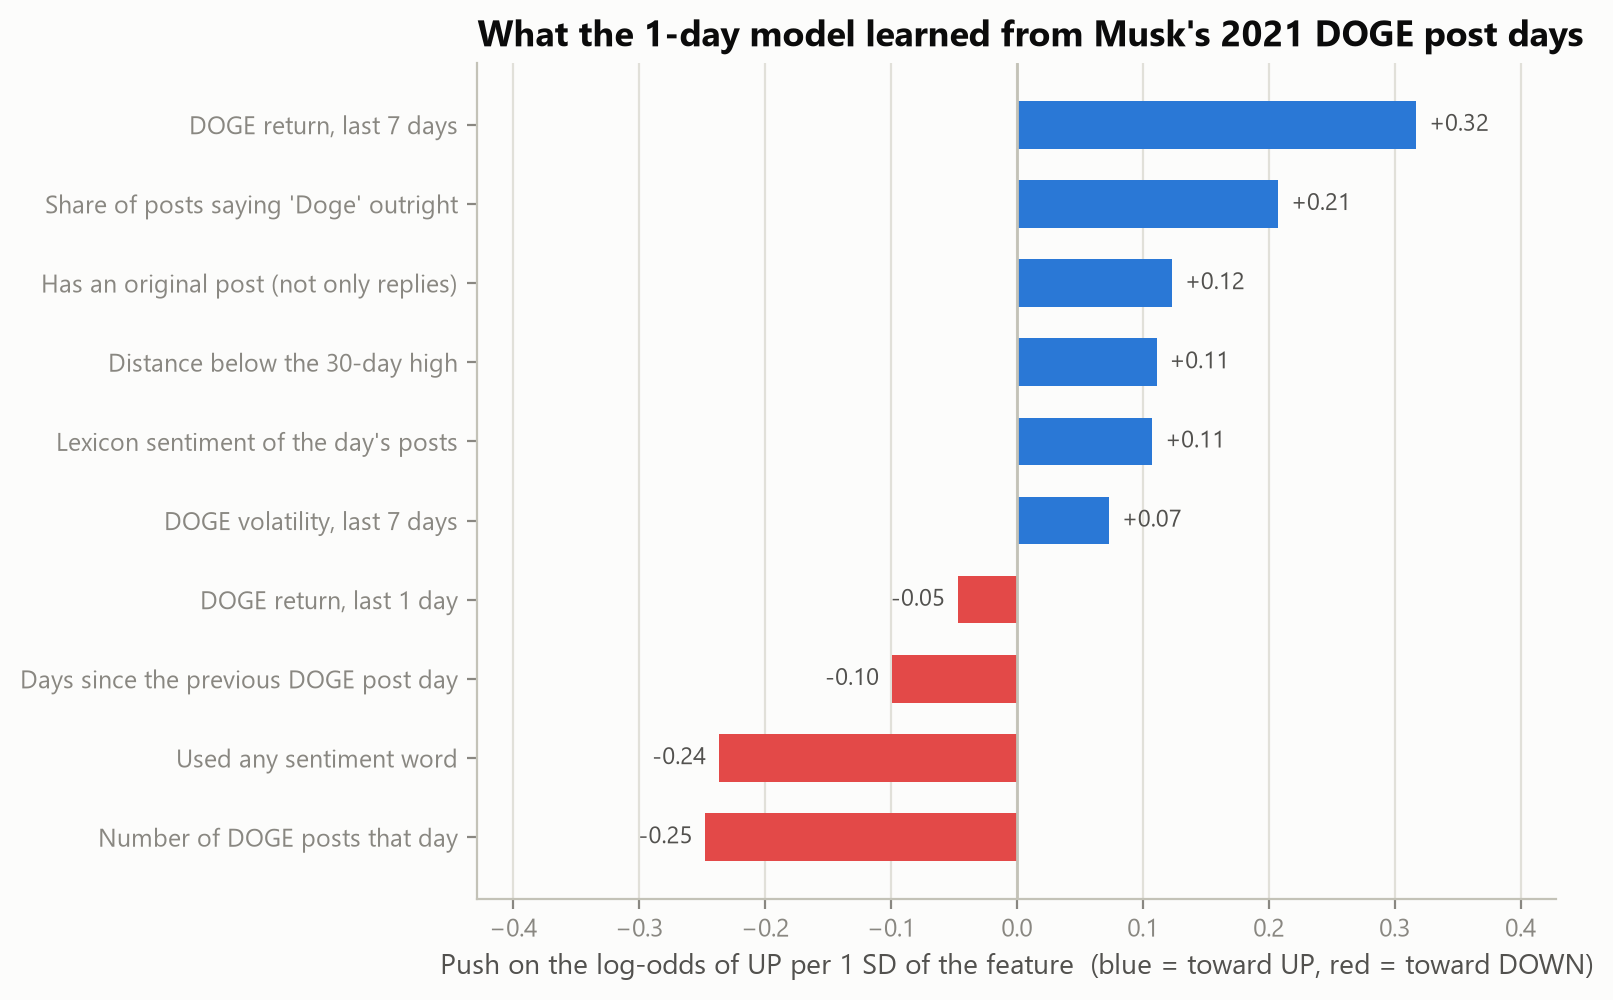
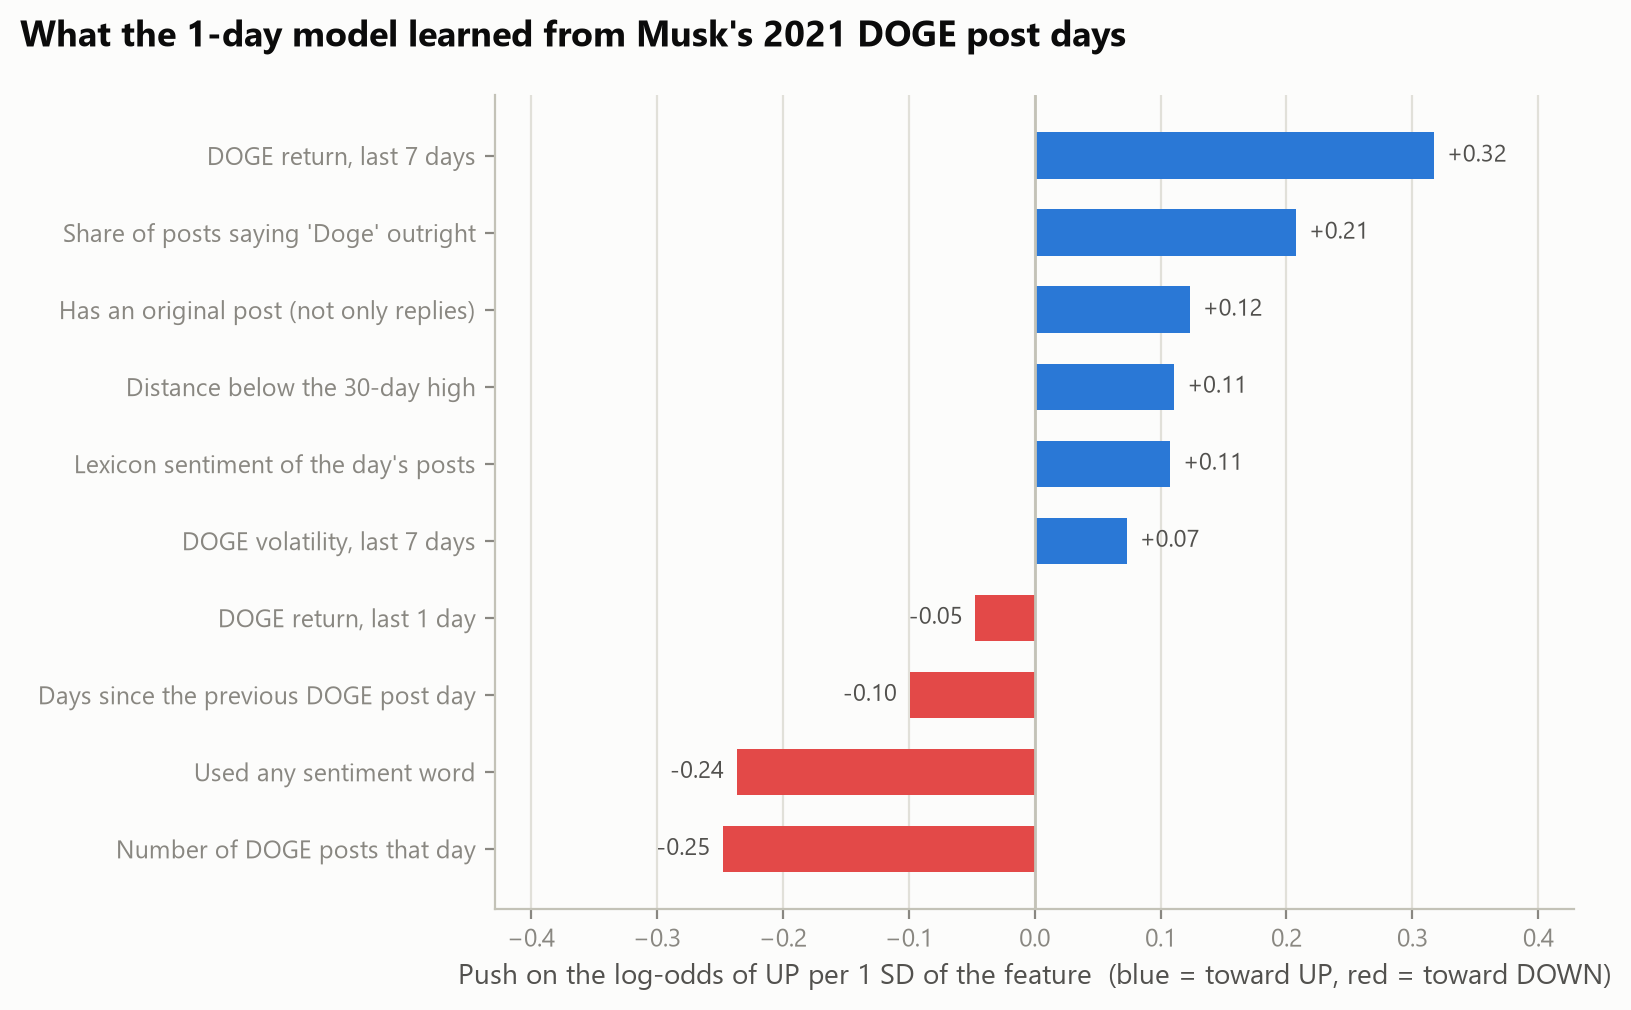
Re-run model notebook after audit fixes (walk-forward window Apr-Dec)

diff --git a/presentation/model_findings.md b/presentation/model_findings.md
@@ -1,12 +1,13 @@
 # Model findings (auto-drafted by notebooks/02_direction_model.ipynb)
 
-_Generated 2026-10-20 08:11 UTC from 105 @elonmusk DOGE posts on 69 post days, 2021-01-01 to 2021-12-31. Model: L2 logistic regression (penalty 5, fixed in advance) on post-day text and market features. Focus horizon: 1 day(s), chosen before testing._
+_Generated 2026-10-20 08:28 UTC from 105 @elonmusk DOGE posts on 69 post days, 2021-01-01 to 2021-12-31. Model: L2 logistic regression (penalty 5, fixed in advance) on post-day text and market features. Focus horizon: 1 day(s), chosen before testing._
 
 ## Headline
 
-- Walk-forward (Mar–Dec 2021, refit monthly on earlier months only): the model called the next-1-day direction right **50%** of the time vs. **49%** no-skill (+0.5 pp, p = 0.525, n = 52 post days; AUC 0.52, Brier skill -0.05): **not** distinguishable from chance.
+- Walk-forward (Apr–Dec 2021, refit monthly on earlier months only): the model called the next-1-day direction right **50%** of the time vs. **49%** no-skill (+0.5 pp, p = 0.525, n = 52 post days; AUC 0.52, Brier skill -0.05): **not** distinguishable from chance.
 - Held-out Sep–Dec 2021 (trained on Jan–Aug only): the model called the next-1-day direction right **20%** of the time vs. **40%** no-skill (-19.5 pp, p = 0.982, n = 20 post days; AUC 0.36, Brier skill -0.35): **not** distinguishable from chance.
 - Against simple rules (walk-forward, 1d): the model beat always calling the training majority (48%) and beat momentum (40%).
+- Walk-forward months skipped for too little history: 2021-03 (9 earlier post days with outcomes, need 15).
 
 ## Every horizon (text + market features)
 
